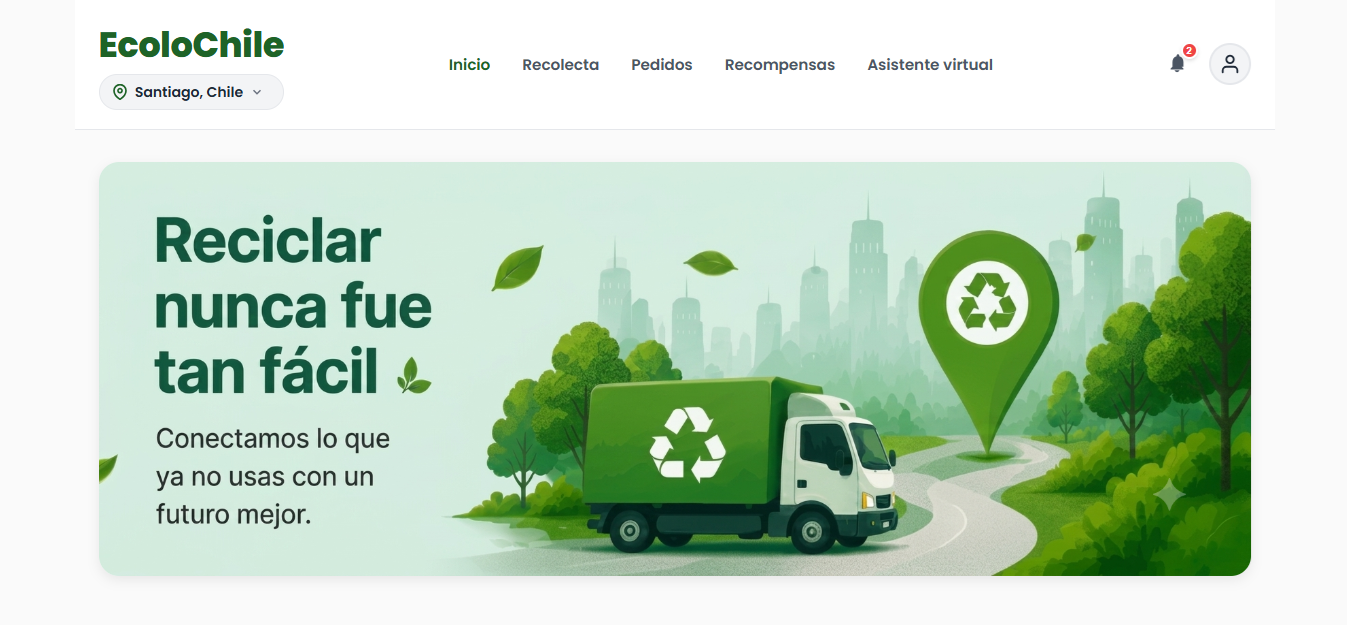
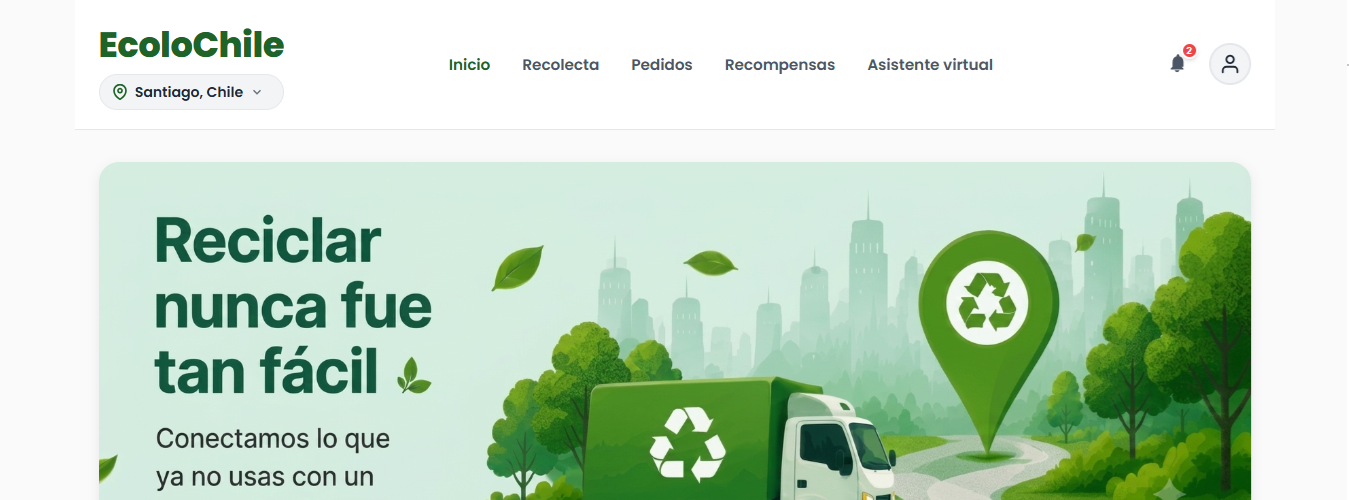
asd

diff --git a/index.html b/index.html
@@ -30,6 +30,7 @@
     </header>
     <main>
         <section id="inicio" class="inicio">
+            <img src="static/images/fondo1.png" alt="imagen-fondo" class="imagen-fondo">
             <div>
                 <h1>Hola, soy <span class="inicio-nombre">Javier Colque</span></h1>
                 <h2>Desarrollador Front-End en formación | VVH & Skillnest</h2>
@@ -41,6 +42,7 @@
 
         <!-- Sección Sobre Mí & Habilidades -->
         <section id="sobre-mi" class="about">
+            <img src="static/images/fondo2.png" alt="imagen-fondo" class="imagen-fondo">
             <div class="container">
                 <h2 class="section-title">Sobre Mí</h2>
                 <div class="about-grid">
@@ -93,6 +95,7 @@
 
         <!-- Sección Formación Académica -->
         <section id="formacion" class="education">
+            <img src="static/images/fondo1.png" alt="fondo3" class="imagen-fondo">
             <div class="container">
                 <h2 class="section-title">Formación Académica</h2>
                 
@@ -124,6 +127,7 @@
 
         <!-- Sección de Proyectos -->
         <section id="proyectos" class="projects">
+            <img src="static/images/fondo2.png" alt="imagen-fondo" class="imagen-fondo">
             <div class="container">
                 <h2 class="section-title">Mis Proyectos</h2>
                 
@@ -153,7 +157,7 @@
 
                     <!-- Proyecto 2 -->
                     <div class="project-card" data-category="js">
-                        <img src="assets/img/proyecto2.jpg" alt="Captura del Proyecto 2">
+                        <img src="static/images/TacoPalace.png" alt="TacoPalace">
                         <div class="project-info">
                             <h3>TacoPalace</h3>
                             <p>TacoPalace es una pagina web correspondiente a la simulacion de la certificacion Skillnest, incluye HTML, CSS y JS</p>
@@ -169,32 +173,12 @@
                 </div>
             </div>
         </section>
-
-        <!-- Sección de Contacto -->
-        <section id="contacto" class="contact">
-            <div class="container">
-                <h2 class="section-title">Identidad Profesional</h2>
-                <p>¿Interesado en mi trabajo? ¡Hablemos!</p>
-                <div class="contact-links">
-                    <a href="" class="contact-card">
-                        <i class="fa-solid fa-envelope"></i>
-                        <span>javiercolque@liceovvh.cl</span>
-                        <span>javiercolquesoto32@gmail.com</span>
-                    </a>
-                    <a href="https://www.linkedin.com/in/javier-colque-67b39a435/" target="_blank" class="contact-card">
-                        <i class="fa-brands fa-linkedin"></i>
-                        <span>Mi perfil en LinkedIn</span>
-                    </a>
-                    <a href="https://github.com/j-aaviieer" target="_blank" class="contact-card">
-                        <i class="fa-brands fa-github"></i>
-                        <span>Mi GitHub</span>
-                    </a>
-                </div>
-            </div>
-        </section>
     </main>
 
-    <footer>
+    <footer id="contacto">
+        <i class="fa-solid fa-envelope"></i>
+                        <span>javiercolque@liceovvh.cl</span>
+                        <span>javiercolquesoto32@gmail.com</span>
         <p>Portafolio realizado como trabajo de clase.</p>
     </footer>
 

diff --git a/static/css/style.css b/static/css/style.css
@@ -21,7 +21,11 @@ body {
     background-color: white;
     transition: all 0.3 ease;
 }
-
+section {
+    max-width: 100%;
+    max-height: 680px;
+    min-height: 680px;
+}
 .container {
     max-width: 1200px;
     margin: 0 auto;
@@ -137,6 +141,40 @@ header {
 }
 
 /* --- Hero Section --- */
+.imagen-fondo {
+    position: absolute;
+    top: 0;
+    left: 0;
+    width: 100%;
+    height: 100%;
+    object-fit: cover;
+    object-position: center;
+    z-index: -1;
+
+}
+.imagen-fondo-2 {
+    position: absolute;
+    top: 0;
+    left: 0;
+    width: 100%;
+    height: 100%;
+    object-fit: cover; /* Escala y recorta la imagen proporcionalmente */
+    object-position: center;
+    z-index: -5;
+    border-bottom: solid 2px rgba(0, 0, 0, 0.233);
+    box-shadow: bottom 0 0 20px 0 rgba(0, 0, 0, 0.2);
+}
+.fondo3 {
+    position: absolute;
+    top: 0;
+    left: 0;
+    width: 100%;
+    height: 100%;
+    object-fit: cover; /* Escala y recorta la imagen proporcionalmente */
+    object-position: center;
+    z-index: -10;
+    box-shadow: bottom 0 0 20px 0 rgba(0, 0, 0, 0.2);
+}
 .inicio {
     min-height: 100vh;
     display: flex;
@@ -144,7 +182,6 @@ header {
     justify-content: center;
     text-align: center;
     padding: 0 20px;
-    background: linear-gradient(to bottom, rgb(207, 207, 207), white);
 }
 
 .inicio h1 {
